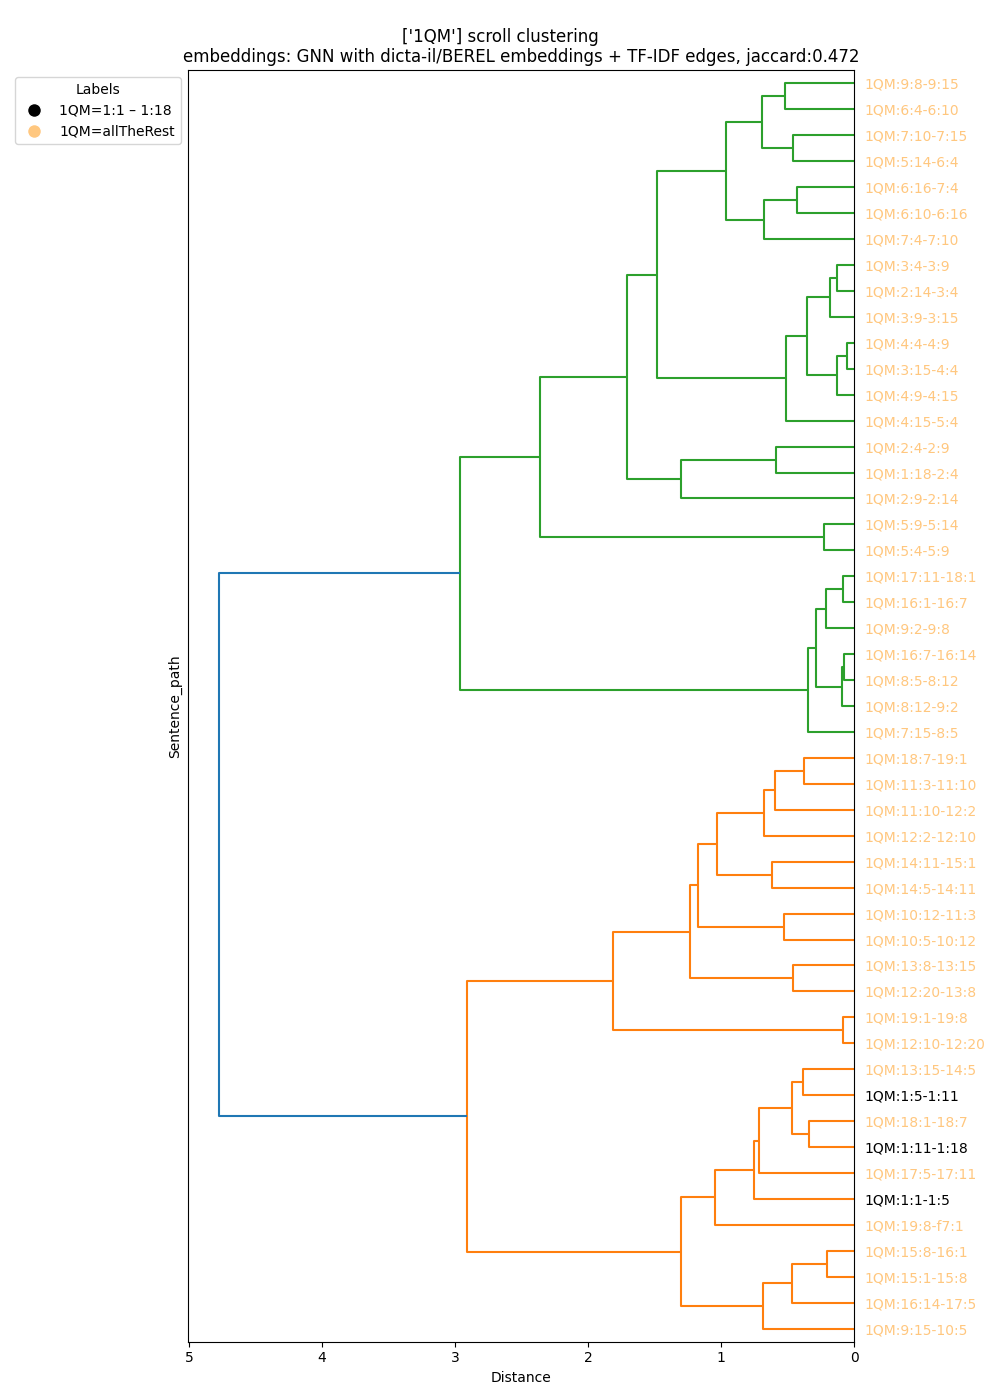
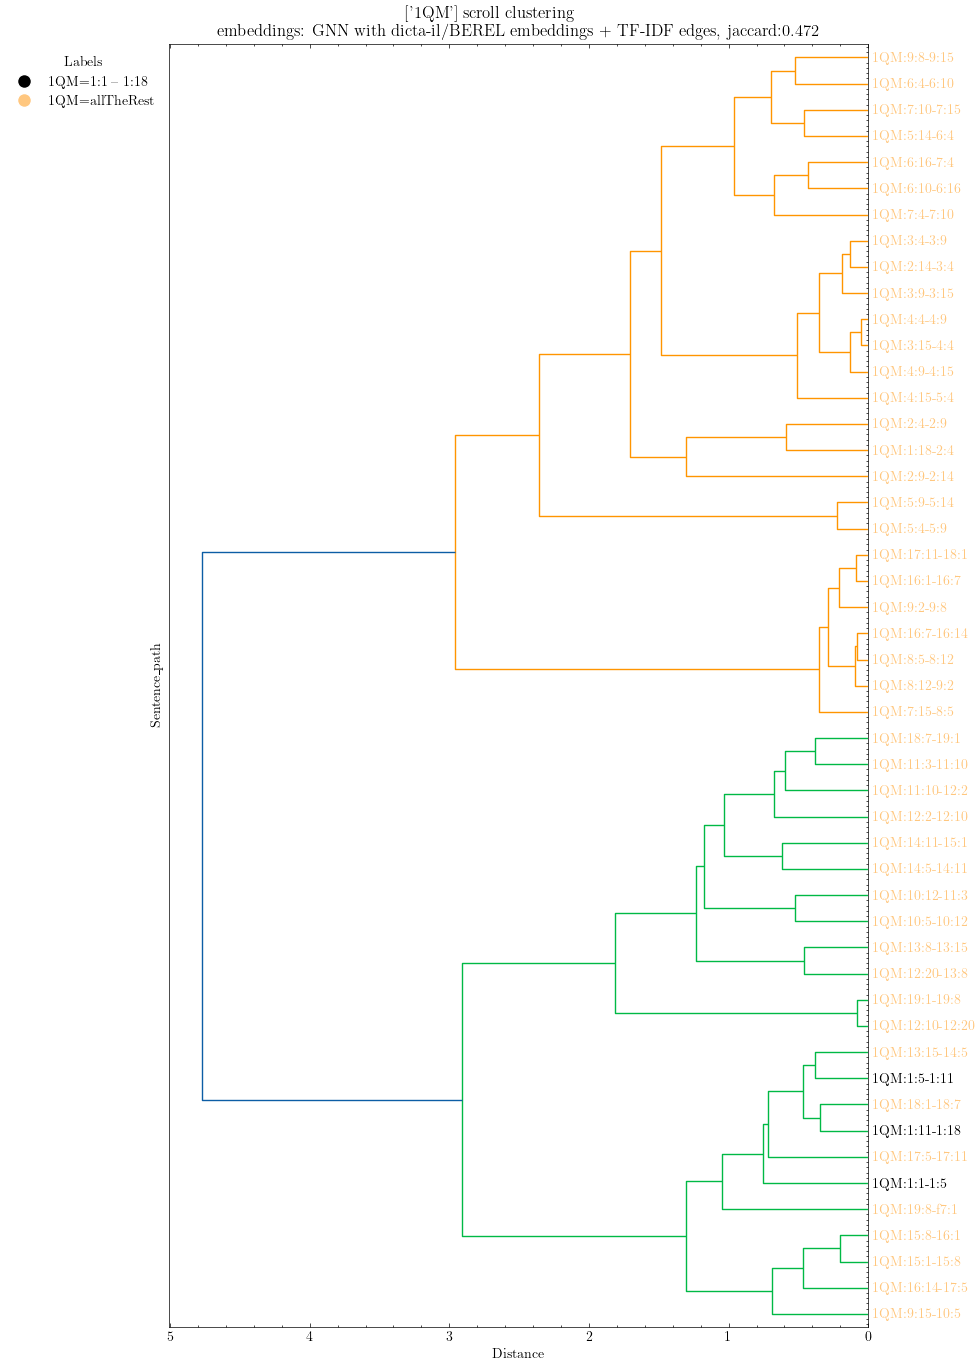
added scienceplots

diff --git a/src/plots_generation/plot_utils.py b/src/plots_generation/plot_utils.py
@@ -31,7 +31,7 @@ COMPARISON_SCHEMES = {
 
 
 def get_group_by_vectorizer(i):
-    if "yonatanlou" in i:
+    if "maskedLM" in i:
         return "fine_tuned"
     elif "dicta" in i or "onlplab" in i:
         return "pre_trained_bert"
@@ -90,7 +90,9 @@ def generate_bar_plot(
     which_hue_cols=False,
     base_color_by_group=None,
 ):
-    plt.style.use(["science", "no-latex"])
+    import scienceplots
+
+    plt.style.use(["science"])
     # Replace "section" with "sectarian"
     all_results["task"] = all_results["task"].replace("section", "sectarian")
 
@@ -108,7 +110,7 @@ def generate_bar_plot(
     # Iterate through unique tasks
     for task in all_results["task"].unique():
         # Create a new figure for each task
-        plt.figure(figsize=(3.04 * 3, 4))
+        plt.figure(figsize=(3.04 * 3, 4), dpi=200)
 
         # Filter data for the current task
         task_data = all_results[all_results["task"] == task]
@@ -121,7 +123,6 @@ def generate_bar_plot(
                 task_data[hue_col], categories=custom_order, ordered=True
             )
             task_data = task_data.sort_values(hue_col)
-
         # Create the plot
         sns.barplot(
             x=x_col,
@@ -142,8 +143,9 @@ def generate_bar_plot(
         padding = (max_y_col - min_y_col) * 0.1
         plt.ylim(min_y_col - padding, max_y_col + padding)
 
-        plt.xlabel("Model", fontsize=14)
+        plt.xlabel("Model", fontsize=16)
         plt.ylabel(y_col.replace("_", " ").capitalize(), fontsize=14)
+        plt.yticks(fontsize=14)
         # plt.xticks(rotation=45)
 
         # Customize legend
@@ -152,9 +154,11 @@ def generate_bar_plot(
             bbox_to_anchor=(1.05, 1),
             loc="upper left",
             borderaxespad=0.0,
+            fontsize=12,
+            title_fontsize=14,
         )
         plt.grid(alpha=0.5)
-
+        plt.tight_layout()
         # Save figure with task-specific filename
         if filename:
             task_filename = filename.format(task)
@@ -162,9 +166,9 @@ def generate_bar_plot(
                 os.makedirs(os.path.dirname(task_filename))
 
             plt.savefig(task_filename, bbox_inches="tight")
+            print(f"Saved plot to {task_filename}")
 
-        plt.tight_layout()
-        plt.show()
+        # plt.show()
 
 
 def generate_all_results_supervised(

diff --git a/src/plots_generation/clustering_within_scroll.py b/src/plots_generation/clustering_within_scroll.py
@@ -53,38 +53,6 @@ def get_metrics_per_model(
     embeddings_gvae = get_gvae_embeddings(
         df_, PROCESSED_VECTORIZERS, bert_model, model_file, param_dict
     )
-    # # Generate adjacency matrix
-    # adj_gen = AdjacencyMatrixGenerator(
-    #     vectorizer_type=param_dict["adjacencies"][0]["type"],
-    #     vectorizer_params=param_dict["adjacencies"][0]["params"],
-    #     threshold=param_dict["threshold"],
-    #     distance_metric=param_dict["distance"],
-    #     meta_params=None,
-    #     normalize=True,
-    # )
-    #
-    # # Generate graph
-    # edge_index, edge_attr, adj_matrix = adj_gen.generate_graph(df_)
-    #
-    # # Prepare model
-    # model_path = os.path.join(models_dir, model_file)
-    # kwargs, state = torch.load(model_path)
-    #
-    # model = GVAE(**kwargs)
-    # model.load_state_dict(state)
-    # model.eval()
-    #
-    # # Prepare input
-    # X = PROCESSED_VECTORIZERS[bert_model]
-    # X = X[df_.index]
-    # X = X.astype("float32")
-    # X_tensor = torch.FloatTensor(X)
-    #
-    # # Get embeddings
-    # with torch.no_grad():
-    #     _, mu, *_ = model(X_tensor, edge_index, edge_attr)
-    # embeddings_gvae = mu.numpy()
-
     # Labels setup
     labels_all = {
         "['1QM']": labels_1QM,

diff --git a/src/plots_generation/global_results.py b/src/plots_generation/global_results.py
@@ -41,12 +41,12 @@ def make_bar_plot(domain, is_supervised, gnn_exp_name, gnn_name_format, file_nam
     all_results["vectorizer_type"] = all_results["vectorizer"].apply(
         get_group_by_vectorizer
     )
+    all_results["vectorizer"] = all_results["vectorizer"].str.replace(
+        "yonatanlou/", "", regex=False
+    )
     color_map = generate_color_map(
         all_results, "vectorizer", "vectorizer_type", "RdYlGn", BASE_COLOR_BY_GROUP
     )
-
-    # file_name = f"{BASE_DIR}/experiments/dss/gnn/comparsion_plot_all_tasks.png"
-    # file_name = None
 
     hue_cols = all_results["vectorizer"].unique()
     plot_obj = generate_bar_plot(

diff --git a/src/plots_generation/analysis_utils.py b/src/plots_generation/analysis_utils.py
@@ -61,6 +61,9 @@ def generate_dendrogram_plot(
     label_to_plot="sentence_path",
     path_to_save=None,
 ):
+    import scienceplots
+
+    plt.style.use(["science"])
     if label_to_plot not in ["sentence_path", "label", "book", "composition"]:
         raise
     metrics = round_metrics(metrics)
